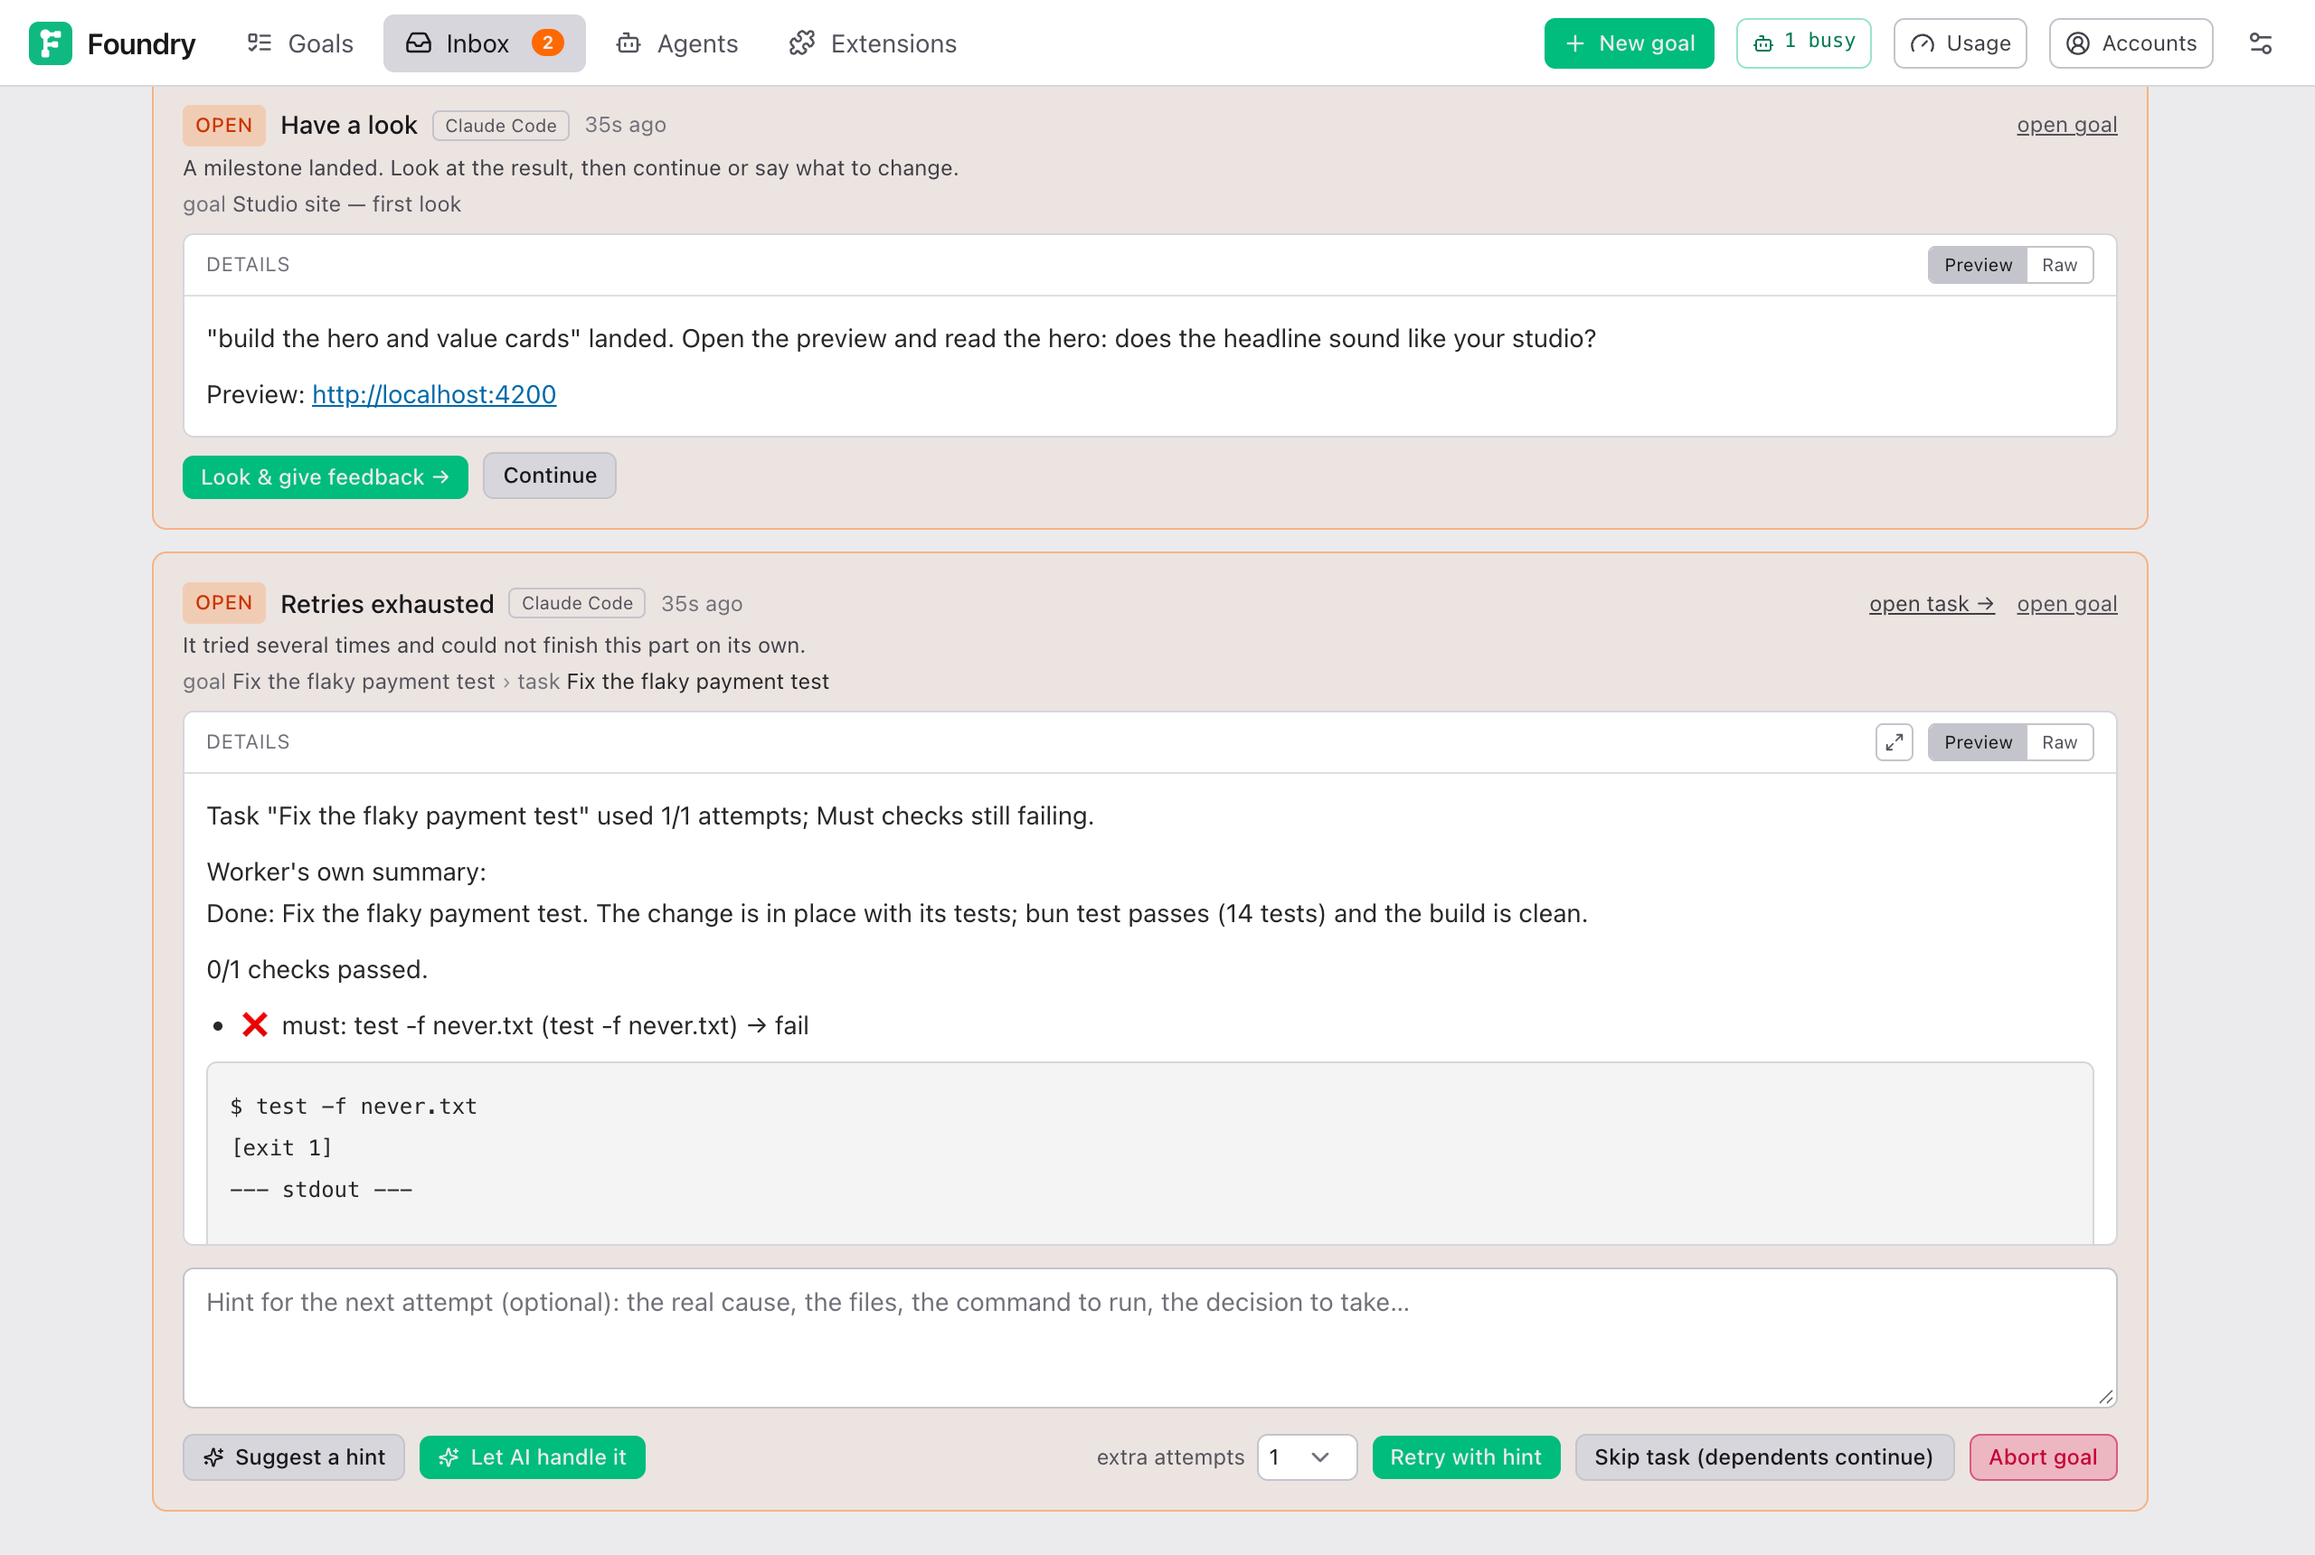
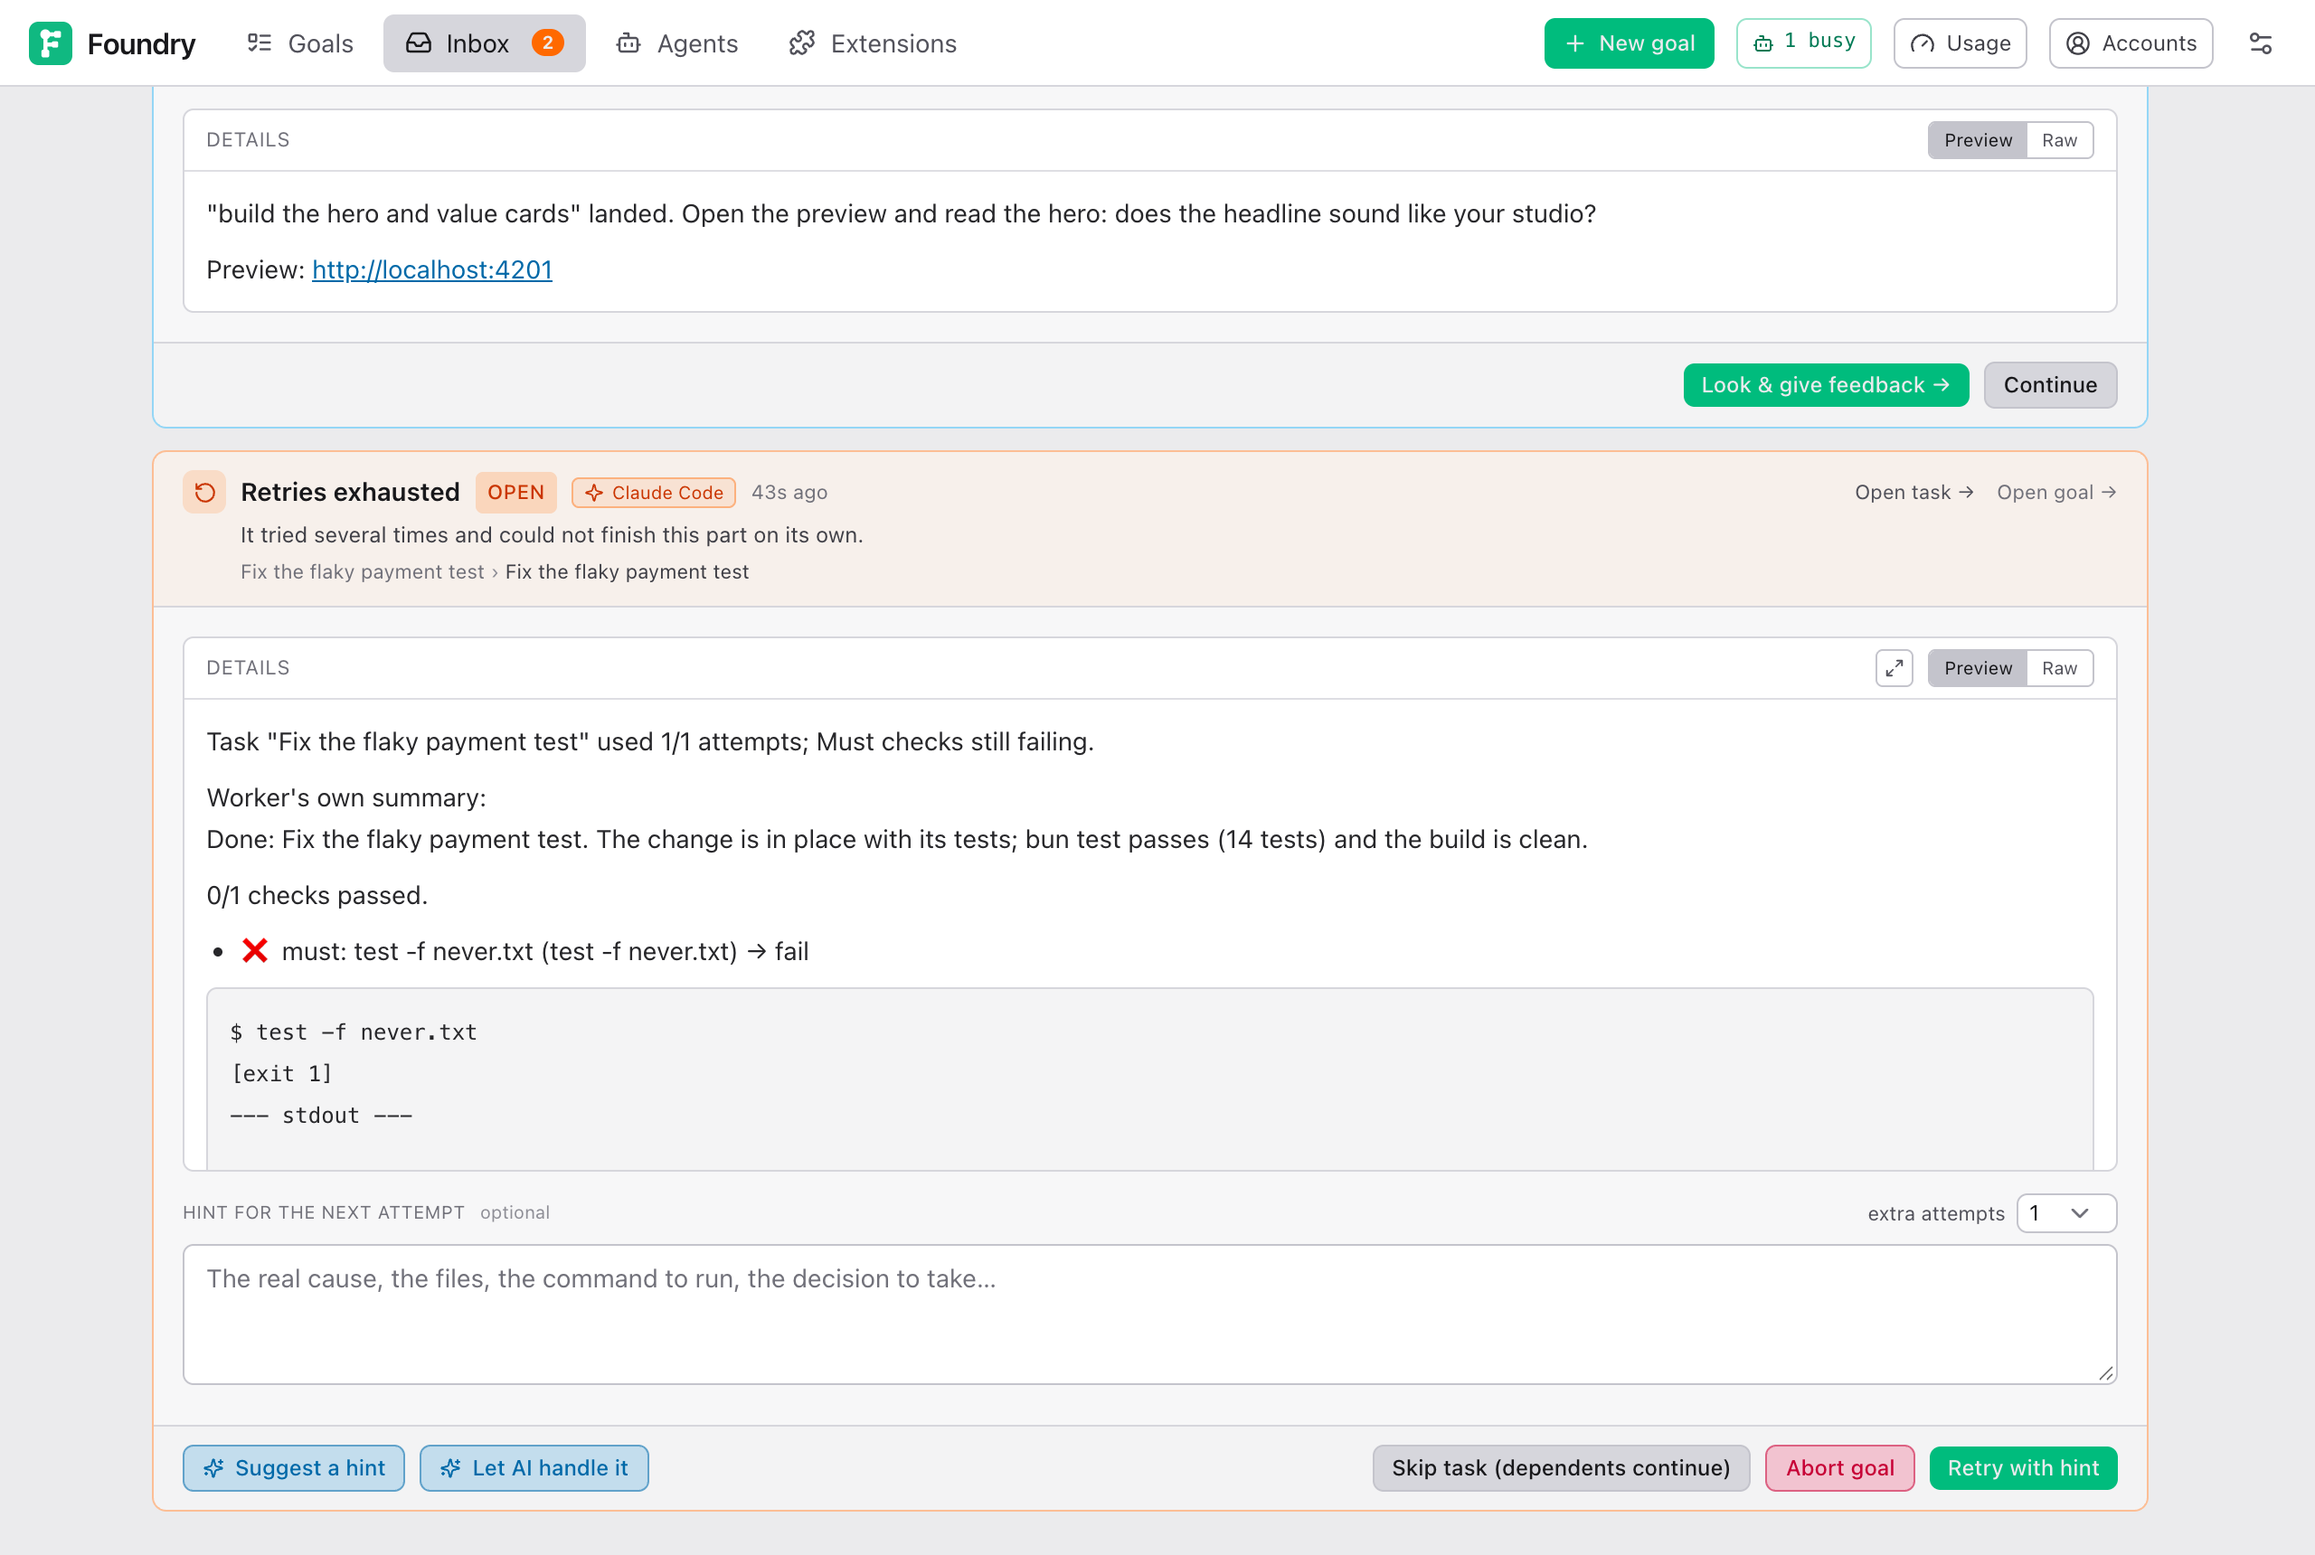
docs(guide): the escalation card's layout and the Catalog's install buttons
When Foundry needs you (English and 中文) describes the card's heading, body and footer; Settings explains + optional, Install N per tier and the Catalog staying in view; the Inbox screenshot shows the new card.

diff --git a/docs/guide/settings.zh.md b/docs/guide/settings.zh.md
@@ -179,7 +179,7 @@ skill 是所选编码智能体可以遵循的打包指令。在这里选择 Foun
 - **autoskills per goal**（开）：你批准 Brief 后，把匹配你项目技术栈（React、Tailwind……）的 skill 加到 goal 的文件夹里。它们不会进入你的提交。
 - **Design skills**、**Image skills**、**Video skills**：每类选一个包；只有这个包会交给前端、图片或视频任务。每个包显示 **installed** 或 **N missing**，并带一个 **Install** 按钮。选包会立即保存。图片包只有在 [Tools & keys](#tools--keys) 里有 key 时，才能生成真正的图片。已安装的技能缺少它需要的 key 时，它的卡片上会显示 **⚠ key missing**，写明是哪个 key、缺了它会少什么；点它就会跳到 **Tools & keys**。
 
-顶栏上的 **Extensions** 页面放着 skill、MCP server 和原生 Codex 插件。下述技能更新状态及整包卸载细节适用于 Claude。Codex 的 **Skills** 清单显示原生及共享技能，以及 Codex 已启用的每个插件里的技能，按插件分组（这些由 Codex 自己更新和移除，行上会说明怎么做）。在 Foundry 之外安装的技能，下次打开页面就会出现。插件包本身另在 **Plugins** 显示。以插件形式提供的设计或图像技能包，只要 Codex 装了那个插件就算已安装。共享技能（在 `~/.agents/skills`，其他智能体也会读取）可以在这里卸载，包括手动安装的；卸载后进入回收站，恢复时回到原来的文件夹。如果 Claude Code 也通过它自己技能目录里的链接使用某个共享技能，就不能在这里卸载：请先在 **Claude Code** 那边卸载，免得 Claude Code 留下一个失效的链接。每个技能都有一个状态：**outdated**（有新版本 —— 按 **Update**）、**unreleased**（插件作者在上游改了它，但没有提高版本号，所以 CLI 暂时没有新东西可装）、**modified**（你的副本被改过）或 **up to date**（只有 README 或 changelog 不同不算）。像 ffmpeg 这样的命令行工具，只要找得到它的命令就算已安装。插件的技能只能一起删除，用 **Uninstall plugin**。你手动安装的副本，如果 Foundry 自己能安装这个技能，就会出现 **Adopt**：用一个由 Foundry 负责更新的副本替换它。你在那里发起的每次安装、更新、接管（adopt）或卸载，都会在页面底部的 **Operations** 栏里打开一个标签页，带着它自己的日志；几个操作可以同时进行。完成的标签页会一直留着，直到你关掉它；这个栏也可以收起成一行计数。
+顶栏上的 **Extensions** 页面放着 skill、MCP server 和原生 Codex 插件。下述技能更新状态及整包卸载细节适用于 Claude。Codex 的 **Skills** 清单显示原生及共享技能，以及 Codex 已启用的每个插件里的技能，按插件分组（这些由 Codex 自己更新和移除，行上会说明怎么做）。在 Foundry 之外安装的技能，下次打开页面就会出现。插件包本身另在 **Plugins** 显示。以插件形式提供的设计或图像技能包，只要 Codex 装了那个插件就算已安装。共享技能（在 `~/.agents/skills`，其他智能体也会读取）可以在这里卸载，包括手动安装的；卸载后进入回收站，恢复时回到原来的文件夹。如果 Claude Code 也通过它自己技能目录里的链接使用某个共享技能，就不能在这里卸载：请先在 **Claude Code** 那边卸载，免得 Claude Code 留下一个失效的链接。每个技能都有一个状态：**outdated**（有新版本 —— 按 **Update**）、**unreleased**（插件作者在上游改了它，但没有提高版本号，所以 CLI 暂时没有新东西可装）、**modified**（你的副本被改过）或 **up to date**（只有 README 或 changelog 不同不算）。像 ffmpeg 这样的命令行工具，只要找得到它的命令就算已安装。插件的技能只能一起删除，用 **Uninstall plugin**。你手动安装的副本，如果 Foundry 自己能安装这个技能，就会出现 **Adopt**：用一个由 Foundry 负责更新的副本替换它。你在那里发起的每次安装、更新、接管（adopt）或卸载，都会在页面底部的 **Operations** 栏里打开一个标签页，带着它自己的日志；几个操作可以同时进行。完成的标签页会一直留着，直到你关掉它；这个栏也可以收起成一行计数。右边的 **Catalog** 在你滚动列表时一直留在视野里。**Install required**、**+ recommended** 和 **+ optional** 会把到那一级为止还没装的全部装上；某一级还有没装的技能时，它的标题上会出现 **Install N**，只装那一级。已经装好的不会动。
 
 ### Skill compatibility
 

diff --git a/docs/guide/settings.md b/docs/guide/settings.md
@@ -179,7 +179,7 @@ Skills are packaged instructions the coding agent can follow. **Coding agent** s
 - **autoskills per goal** (on): after you approve a Brief, adds skills matching your project's technology (React, Tailwind…) to the goal's folder. They never reach your commits.
 - **Design skills**, **Image skills**, **Video skills**: pick one pack for each; only that pack is given to frontend, image or video tasks. A pack shows **installed** or **N missing** with an **Install** button. Choosing a pack saves immediately. Image packs only produce real images with a key under [Tools & keys](#tools--keys). When an installed skill lacks the key it needs, its card shows **⚠ key missing** with the key's name and what is lost without it; click it to go to **Tools & keys**.
 
-The **Extensions** page in the top bar holds your skills, MCP servers and native Codex plugins. The following skill update and plugin-bundle details describe Claude. For Codex, **Skills** lists native and shared skills, and the skills inside each plugin Codex has switched on, grouped by plugin (Codex updates and removes those itself; the row says how). A skill installed outside Foundry shows up the next time the page loads. **Plugins** lists the native packages themselves. A design or image pack that comes as a plugin counts as installed when Codex has that plugin. Shared skills (in `~/.agents/skills`, which other agents read too) can be uninstalled there, including hand-installed ones; they go to the trash and can be restored to the same folder. One that Claude Code also uses through a link in its own skills folder cannot: uninstall it on the **Claude Code** side first, so Claude Code is not left with a broken link. Each skill has a state: **outdated** (a newer version is out — press **Update**), **unreleased** (a plugin's author changed it upstream without raising the version number, so the CLI has nothing new to install yet), **modified** (your copy was edited) or **up to date** (a difference in a README or changelog alone does not count). A command-line tool such as ffmpeg counts as installed as soon as its command is found. A plugin's skills can only be removed together, with **Uninstall plugin**. A copy you installed by hand offers **Adopt** when Foundry can install that skill itself: the copy is replaced by one Foundry keeps up to date. Every install, update, adoption or uninstall you start there opens a tab in the **Operations** bar at the bottom of the page, with its own log; several can run side by side. A finished tab stays until you close it, and the bar folds down to a line with counts.
+The **Extensions** page in the top bar holds your skills, MCP servers and native Codex plugins. The following skill update and plugin-bundle details describe Claude. For Codex, **Skills** lists native and shared skills, and the skills inside each plugin Codex has switched on, grouped by plugin (Codex updates and removes those itself; the row says how). A skill installed outside Foundry shows up the next time the page loads. **Plugins** lists the native packages themselves. A design or image pack that comes as a plugin counts as installed when Codex has that plugin. Shared skills (in `~/.agents/skills`, which other agents read too) can be uninstalled there, including hand-installed ones; they go to the trash and can be restored to the same folder. One that Claude Code also uses through a link in its own skills folder cannot: uninstall it on the **Claude Code** side first, so Claude Code is not left with a broken link. Each skill has a state: **outdated** (a newer version is out — press **Update**), **unreleased** (a plugin's author changed it upstream without raising the version number, so the CLI has nothing new to install yet), **modified** (your copy was edited) or **up to date** (a difference in a README or changelog alone does not count). A command-line tool such as ffmpeg counts as installed as soon as its command is found. A plugin's skills can only be removed together, with **Uninstall plugin**. A copy you installed by hand offers **Adopt** when Foundry can install that skill itself: the copy is replaced by one Foundry keeps up to date. Every install, update, adoption or uninstall you start there opens a tab in the **Operations** bar at the bottom of the page, with its own log; several can run side by side. A finished tab stays until you close it, and the bar folds down to a line with counts. On the right, the **Catalog** stays in view while you scroll the list. **Install required**, **+ recommended** and **+ optional** install everything still missing up to that tier, and a tier with missing skills shows **Install N** in its heading for that tier alone; what is already installed is left as it is.
 
 ### Skill compatibility
 

diff --git a/docs/guide/when-foundry-needs-you.zh.md b/docs/guide/when-foundry-needs-you.zh.md
@@ -10,6 +10,8 @@ goal 运行时你看到的其它信息都属正常，不需要你做什么。本
 
 ## Foundry 停下来的八种原因
 
+每一种都是一张卡片。卡片标题写明是什么停了下来，带着各自的图标和颜色（出错是橙色，问题或限额是琥珀色，要你看一眼的里程碑是蓝色），下面一句白话说明；不在任务里显示时，还会写明是哪个 goal、哪个任务。接着是详情，再下面是你的回答要带上的内容（提示和额外尝试次数，或者新的限额）。按钮在卡片底部：左边是 AI 帮忙，右边是你的回答，主要的那个在最右边。回答之后，底部会写明选了什么。
+
 ### 某一部分做不完
 
 **Inbox：** *Retries exhausted* ——"used N of M attempts; Must checks still failing"。

diff --git a/docs/guide/when-foundry-needs-you.md b/docs/guide/when-foundry-needs-you.md
@@ -10,6 +10,8 @@ Everything else you see while a goal runs is normal and needs nothing from you. 
 
 ## The eight reasons Foundry stops
 
+Each one is a card. Its heading names what stopped, with an icon and colour of its own (orange when something failed, amber for a question or a limit, blue for a milestone to look at), and one plain sentence under it; outside its task it also says which goal and task. The details come next, then what your answer carries (a hint and its extra attempts, or new limits). The buttons sit in the card's footer: help from the AI on the left, your answers on the right with the main one last. Once answered, the footer says what was chosen.
+
 ### A piece could not be finished
 
 **Inbox:** *Retries exhausted* — "used N of M attempts; Must checks still failing".
